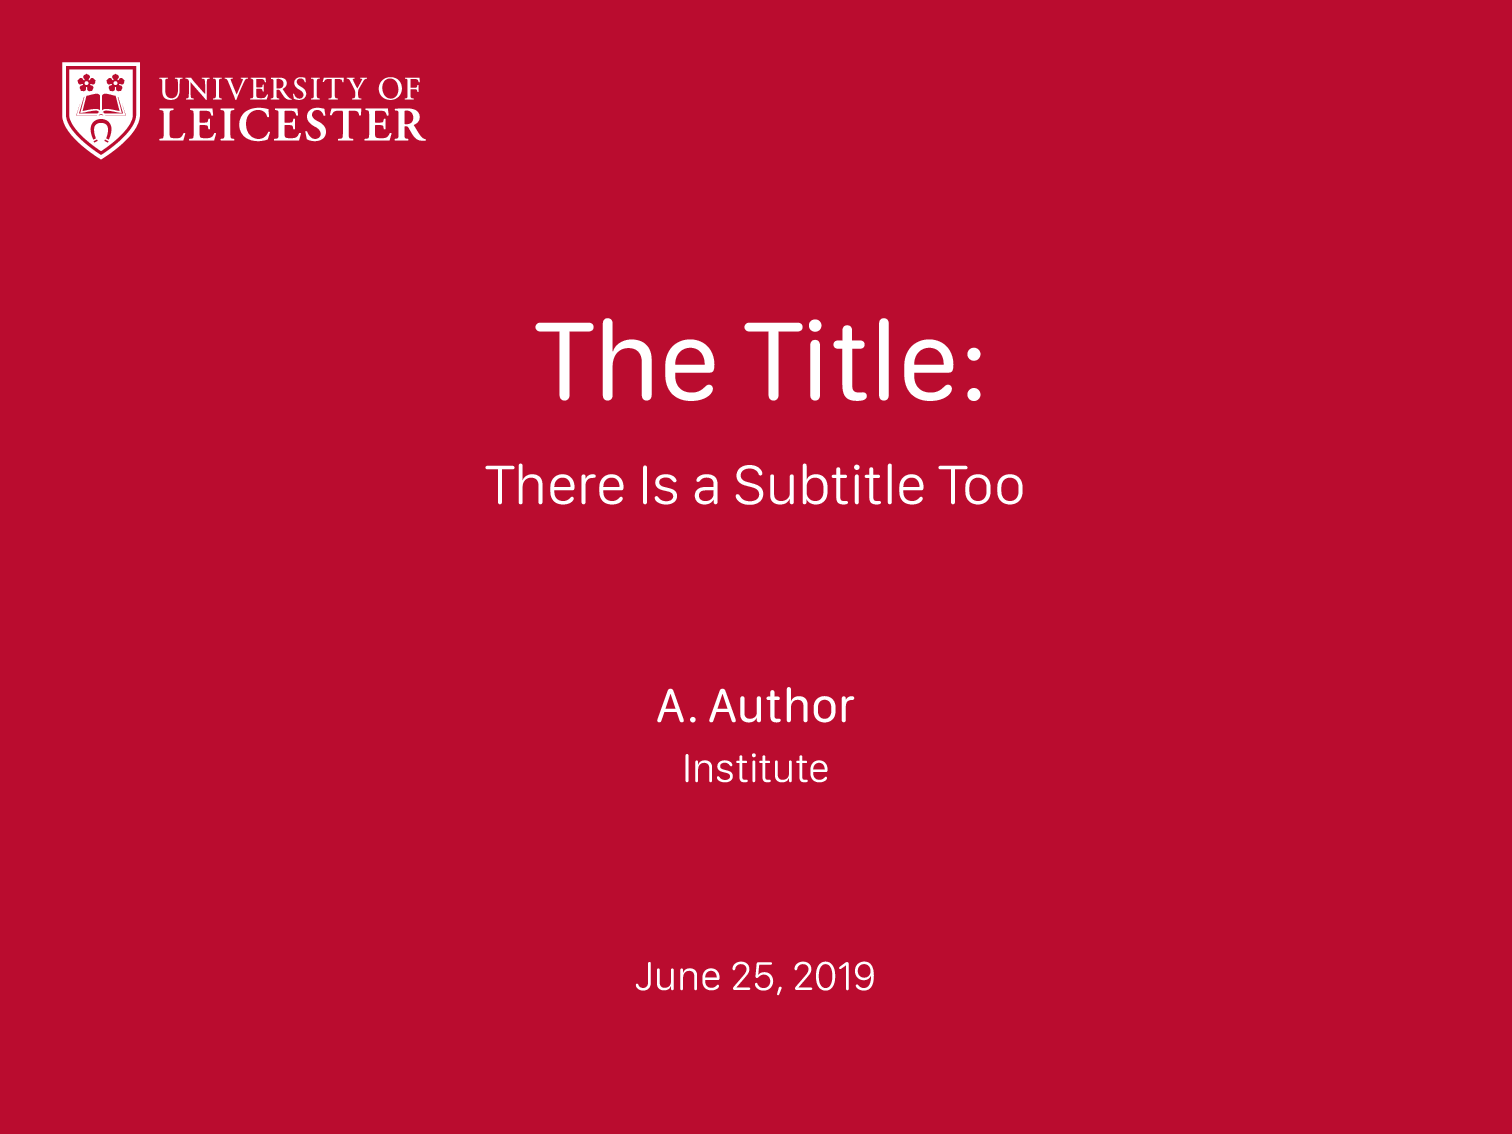
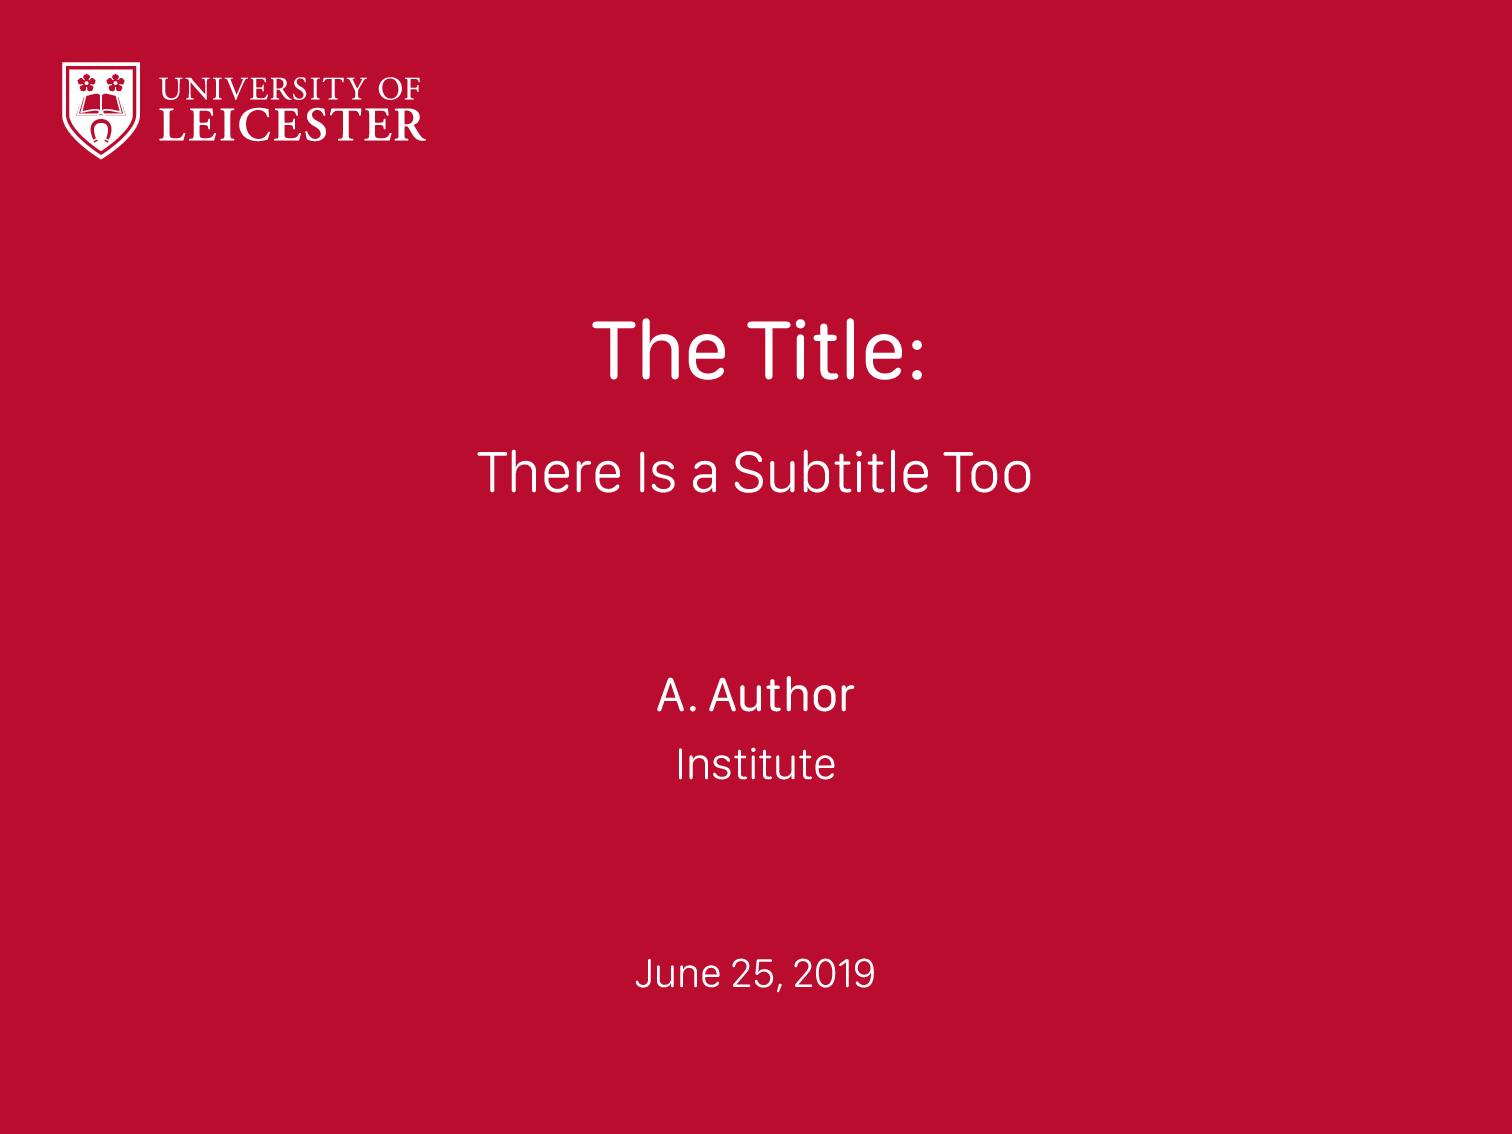
Updated text sizes

diff --git a/default.tex b/default.tex
@@ -1,9 +1,5 @@
 \documentclass{beamer}
 
-% Template breaks without these packages ¯\_(ツ)_/¯
-\usepackage{polyglossia}
-\usepackage[english]{isodate}\isodate
-
 \usetheme[
   % Activates footline information (short title, short author).
   % fullfootline,
